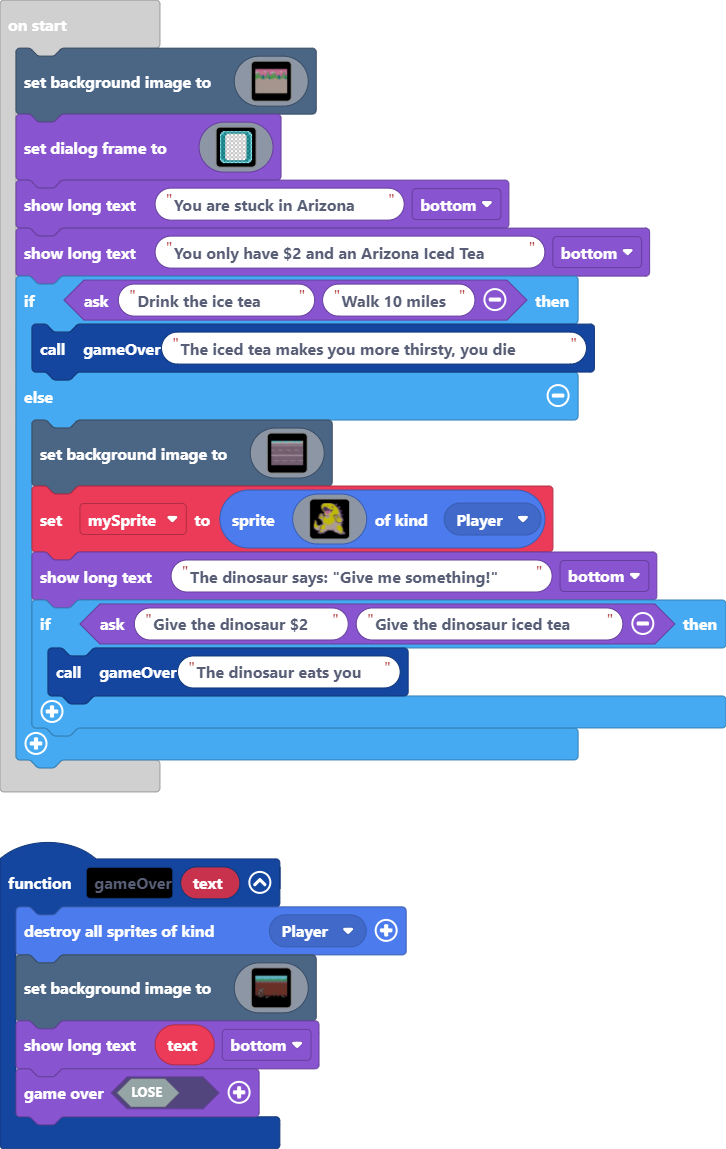
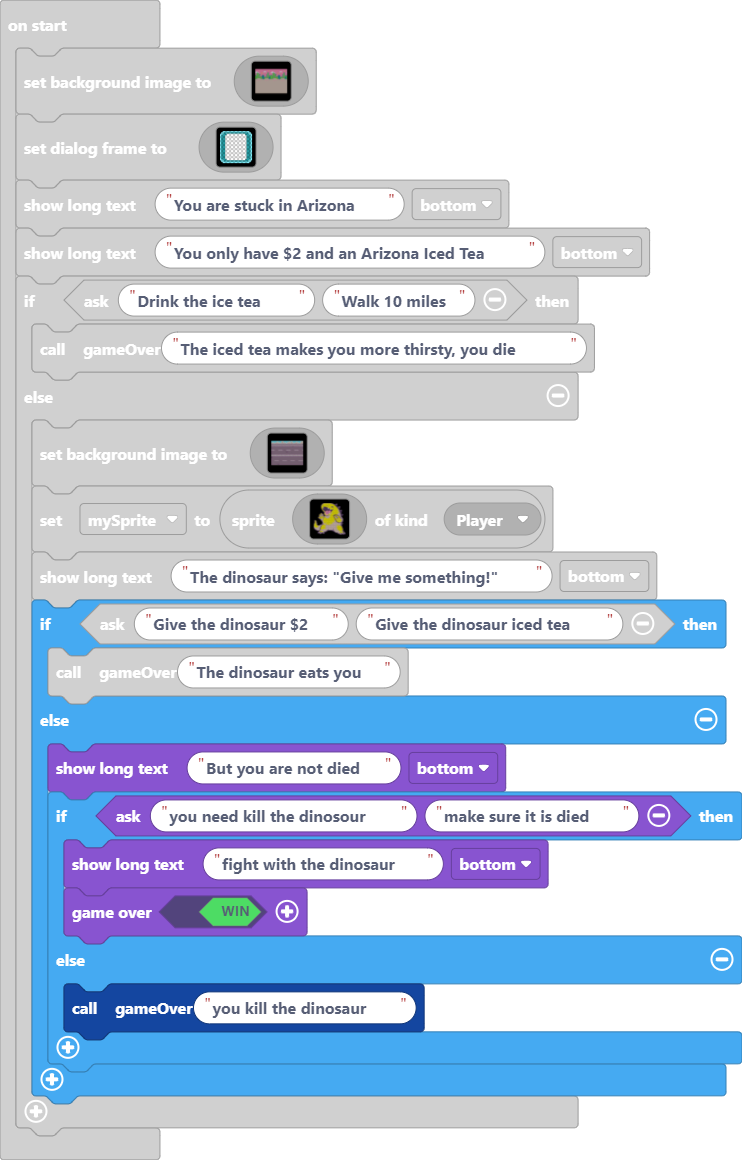
finished the game

diff --git a/main.ts b/main.ts
@@ -482,5 +482,13 @@ if (game.ask("Drink the ice tea ", "Walk 10 miles")) {
     game.showLongText("The dinosaur says: \"Give me something!\"", DialogLayout.Bottom)
     if (game.ask("Give the dinosaur $2", "Give the dinosaur iced tea")) {
         gameOver("The dinosaur eats you")
+    } else {
+        game.showLongText("But you are not died", DialogLayout.Bottom)
+        if (game.ask("you need kill the dinosour", "make sure it is died")) {
+            game.showLongText("fight with the dinosaur", DialogLayout.Bottom)
+            game.over(true)
+        } else {
+            gameOver("you kill the dinosaur")
+        }
     }
 }
